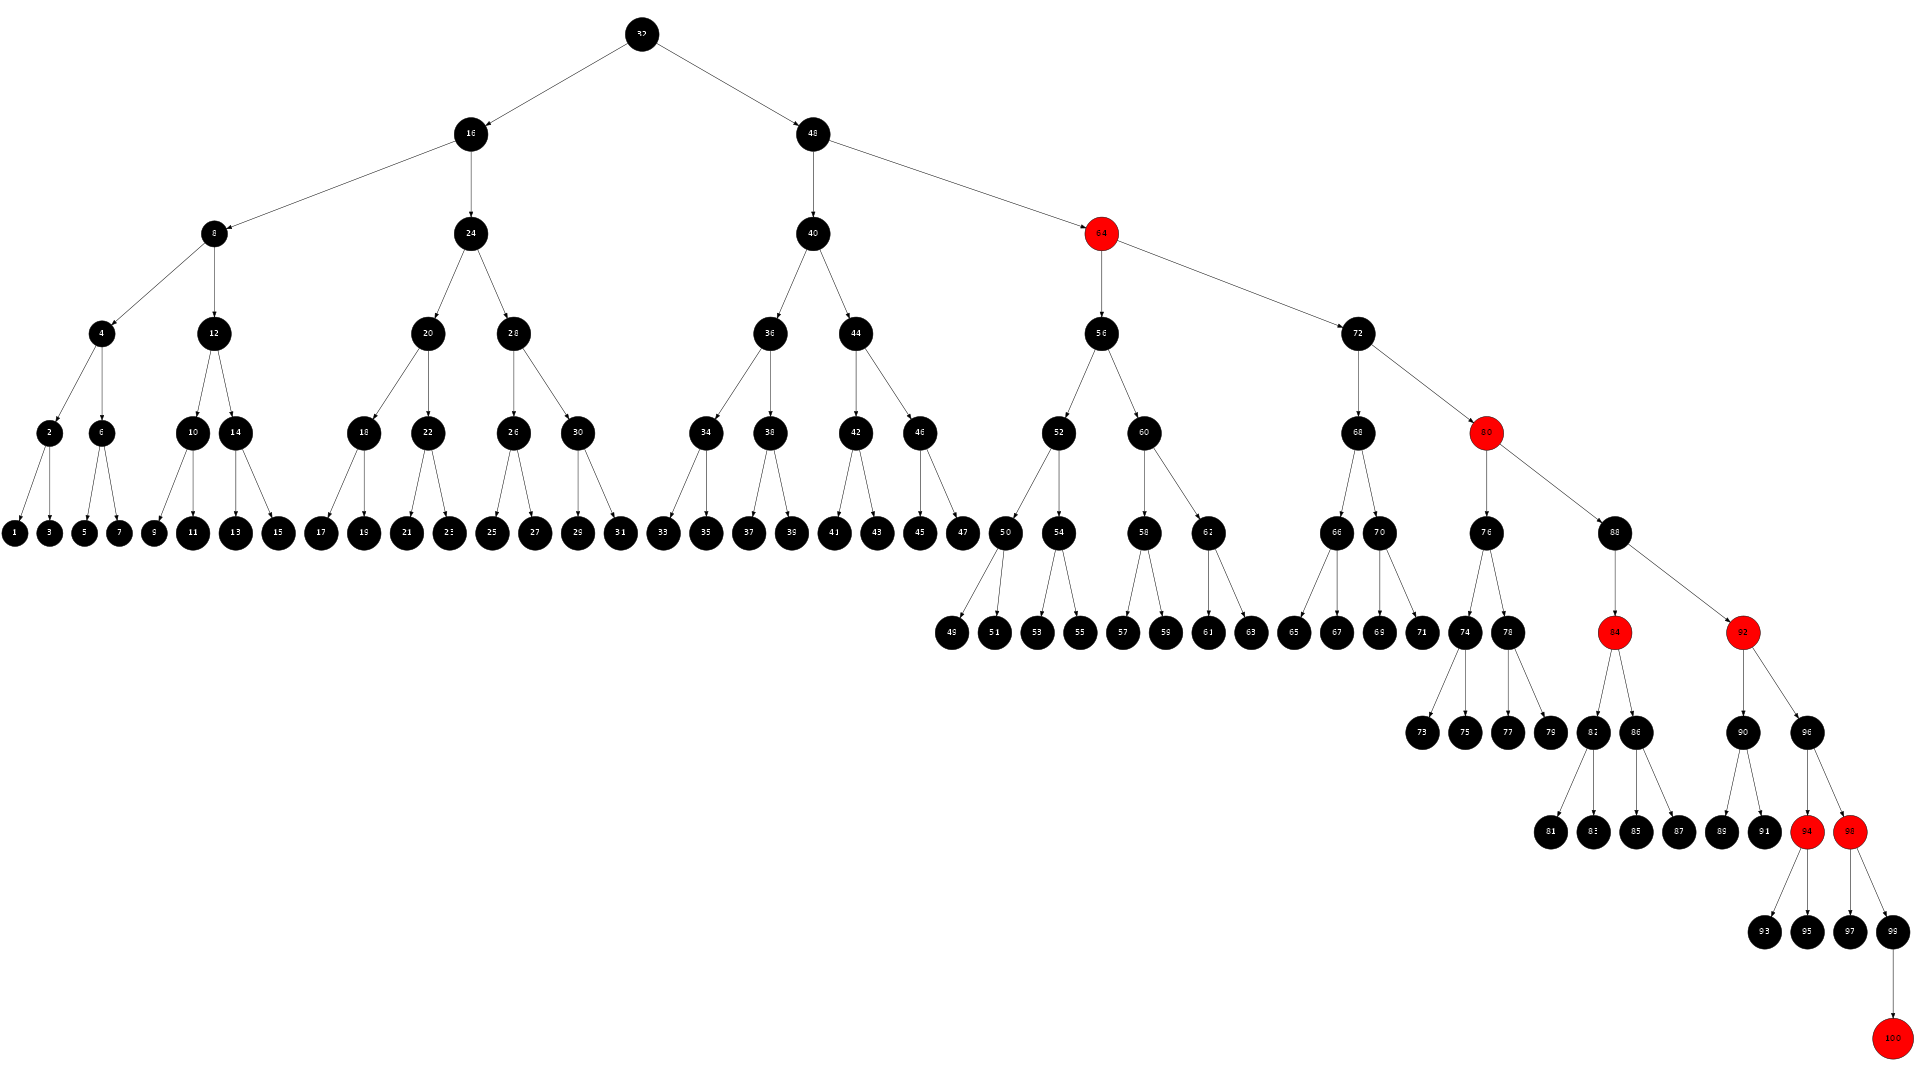
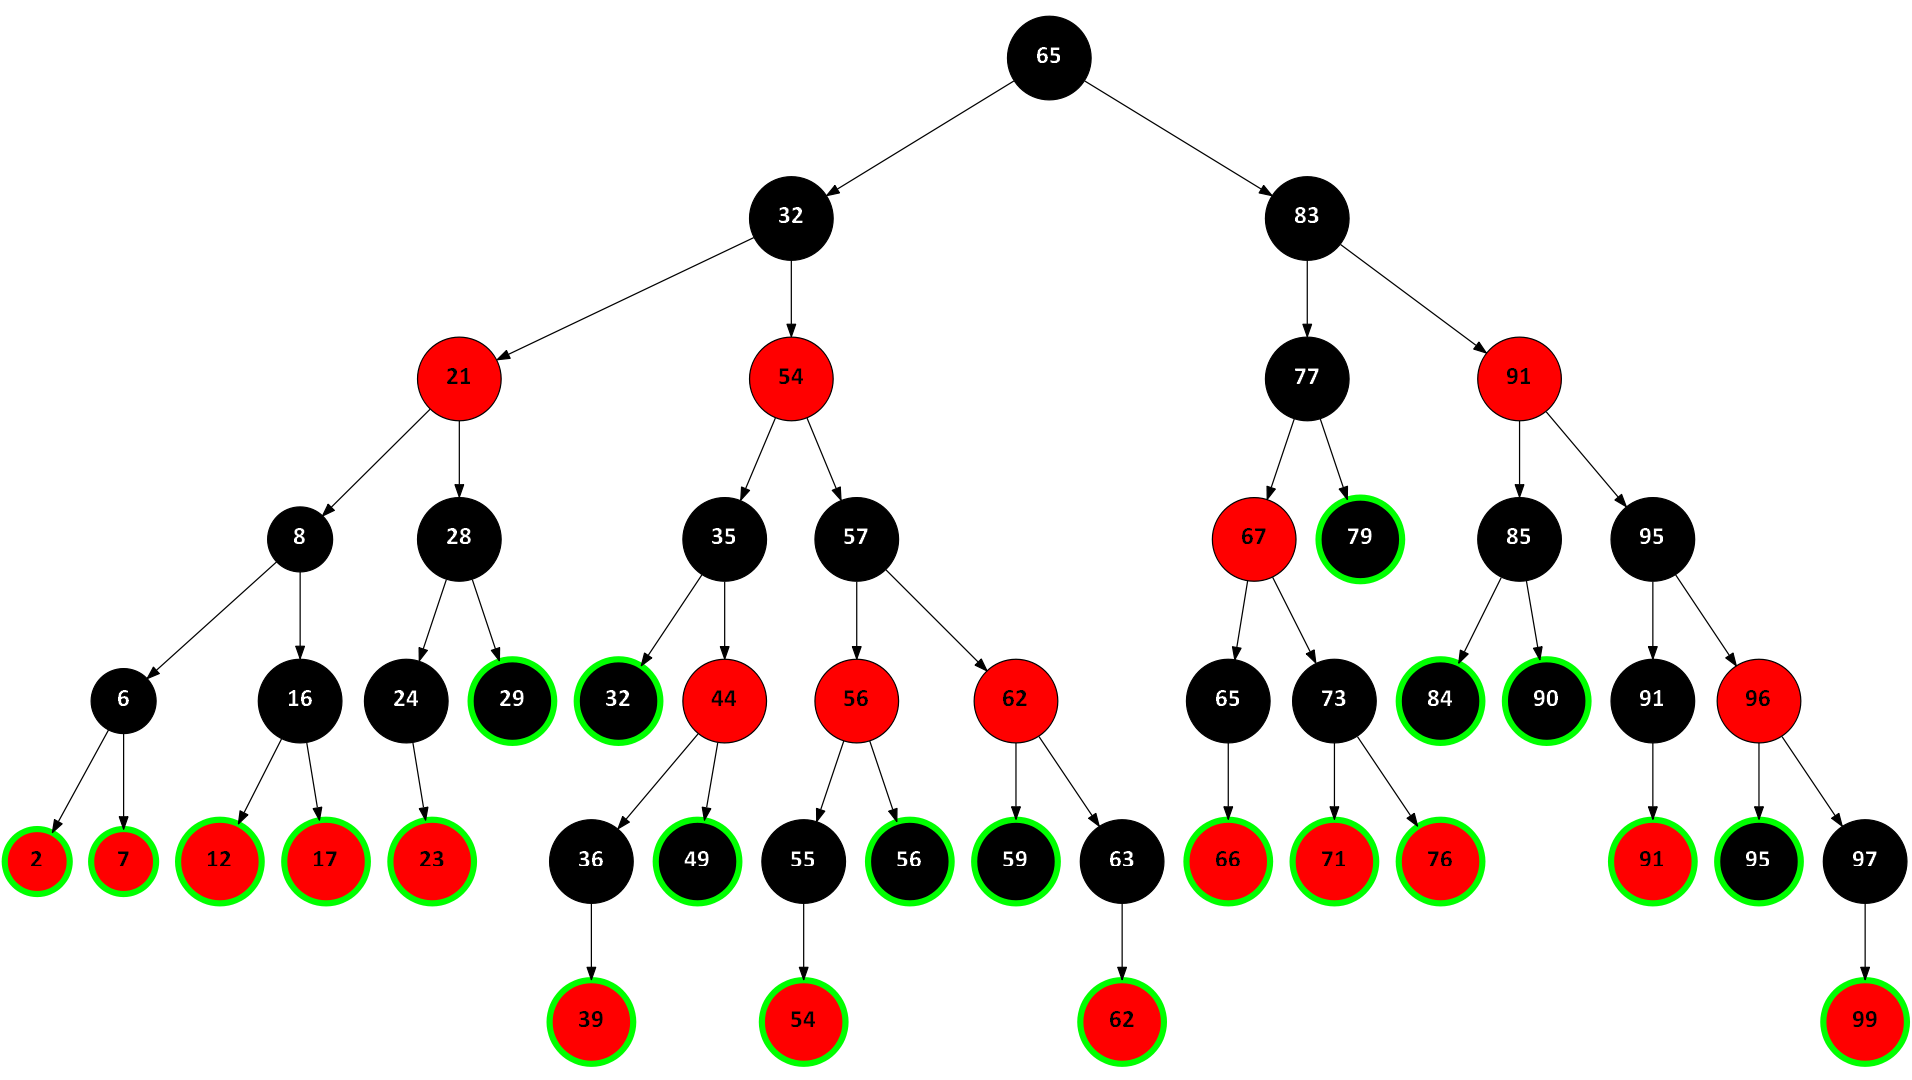
Added red black tree

diff --git a/binary tree/red_black_tree.h b/binary tree/red_black_tree.h
@@ -21,12 +21,18 @@ public:
 	RedBlackTree() { nil_ = new Node(); root_ = nil_; }
 	void insertElement(const T& element);
 	void showTree() { showTree(root_, 0); cout << endl; }
+	int getNumberOfLeaves() const { return getNumberOfLeaves(root_); }
+	int getTreeHeight() const { return getTreeHeight(root_); }
 	void deleteElement(const T& key);
 	void writeTreeForVisualisation() const;
 	~RedBlackTree();
 private:
 	Node *root_, *nil_;
 	void deleteRedBlackTree(Node *start_node);
+	RedBlackTree& operator=(const RedBlackTree& tr) { return *this; }
+	RedBlackTree(const RedBlackTree& tr) { return *this; }
+	int getNumberOfLeaves(Node *start_node) const;
+	int getTreeHeight(Node *start_node) const;
 	Node *minNode(Node *start_node);
 	Node *maxNode(Node *start_node);
 	void transplantRB(Node *u, Node *v);
@@ -50,6 +56,36 @@ void RedBlackTree<T>::deleteRedBlackTree(Node * start_node)
 		deleteRedBlackTree(start_node->right);
 		delete start_node;
 	}
+}
+template<typename T>
+int RedBlackTree<T>::getNumberOfLeaves(Node * start_node) const
+{
+	if (start_node)
+	{
+		if (start_node->right == nil_ && start_node->left == nil_)
+			return 1;
+		int left_leaves = 0, right_leaves = 0;
+		if (start_node->left != nil_)
+			left_leaves = getNumberOfLeaves(start_node->left);
+		if (start_node->right != nil_)
+			right_leaves = getNumberOfLeaves(start_node->right);
+		return left_leaves + right_leaves;
+	}
+	return 0;
+}
+template<typename T>
+int RedBlackTree<T>::getTreeHeight(Node * start_node) const
+{
+	if (start_node != nil_)
+	{
+		int left_height = 0, right_height = 0;
+		if (start_node->left != nil_)
+			left_height = getTreeHeight(start_node->left);
+		if (start_node->right != nil_)
+			right_height = getTreeHeight(start_node->right);
+		return (left_height > right_height ? left_height : right_height) + 1;
+	}
+	return 0;
 }
 //
 template<typename T>
@@ -280,8 +316,10 @@ void RedBlackTree<T>::writeTreeNodeInformation(ostream & os,Node* start_node) co
 	{
 		/*os << "node" << node_number << " [shape=circle,fontsize=20,label=\"" << start_node->data << "\",style=filled" <<
 			(start_node->color == Node::Black ? ",fillcolor=Black,fontcolor=red]" : ",fillcolor=Red]") << endl;*/
-		os << "node" << node_number << " [shape=circle,fontsize=20,fontname=\"Calibri\",label=< <B>" << start_node->data << "</B> >,style=filled" <<
-			(start_node->color == Node::Black ? ",fillcolor=Black,fontcolor=white]" : ",fillcolor=Red]") << endl;
+		os << "node" << node_number << " [shape=circle,fontsize=20,fontname=\"Calibri\",label=< <B>" << start_node->data << "</B> >,style=filled";
+		if (start_node->left == nil_ && start_node->right == nil_)
+			os << ",color=green,penwidth=5";
+		os<<(start_node->color == Node::Black ? ",fillcolor=Black,fontcolor=white]" : ",fillcolor=Red]") << endl;
 		start_node->number = node_number;
 		if (start_node->left != nil_)
 		{
@@ -374,7 +412,7 @@ void RedBlackTree<T>::insertElement(const T &element)
 	fixAfterInsert(insert_node);
 }
 
-template<typename T>
+template<typename T>13
 void RedBlackTree<T>::deleteElement(const T & key)
 {
 	Node *node_to_delete = search(root_, key);

diff --git a/binary tree/binary tree.cpp b/binary tree/binary tree.cpp
@@ -115,6 +115,8 @@ int main()
 		}
 		case 'v':
 		{
+			cout <<"Number of leaves: "<< RBtree.getNumberOfLeaves() << endl;
+			cout << "Tree height: " << RBtree.getTreeHeight() << endl;
 			visualize(RBtree);
 			break;
 		}
